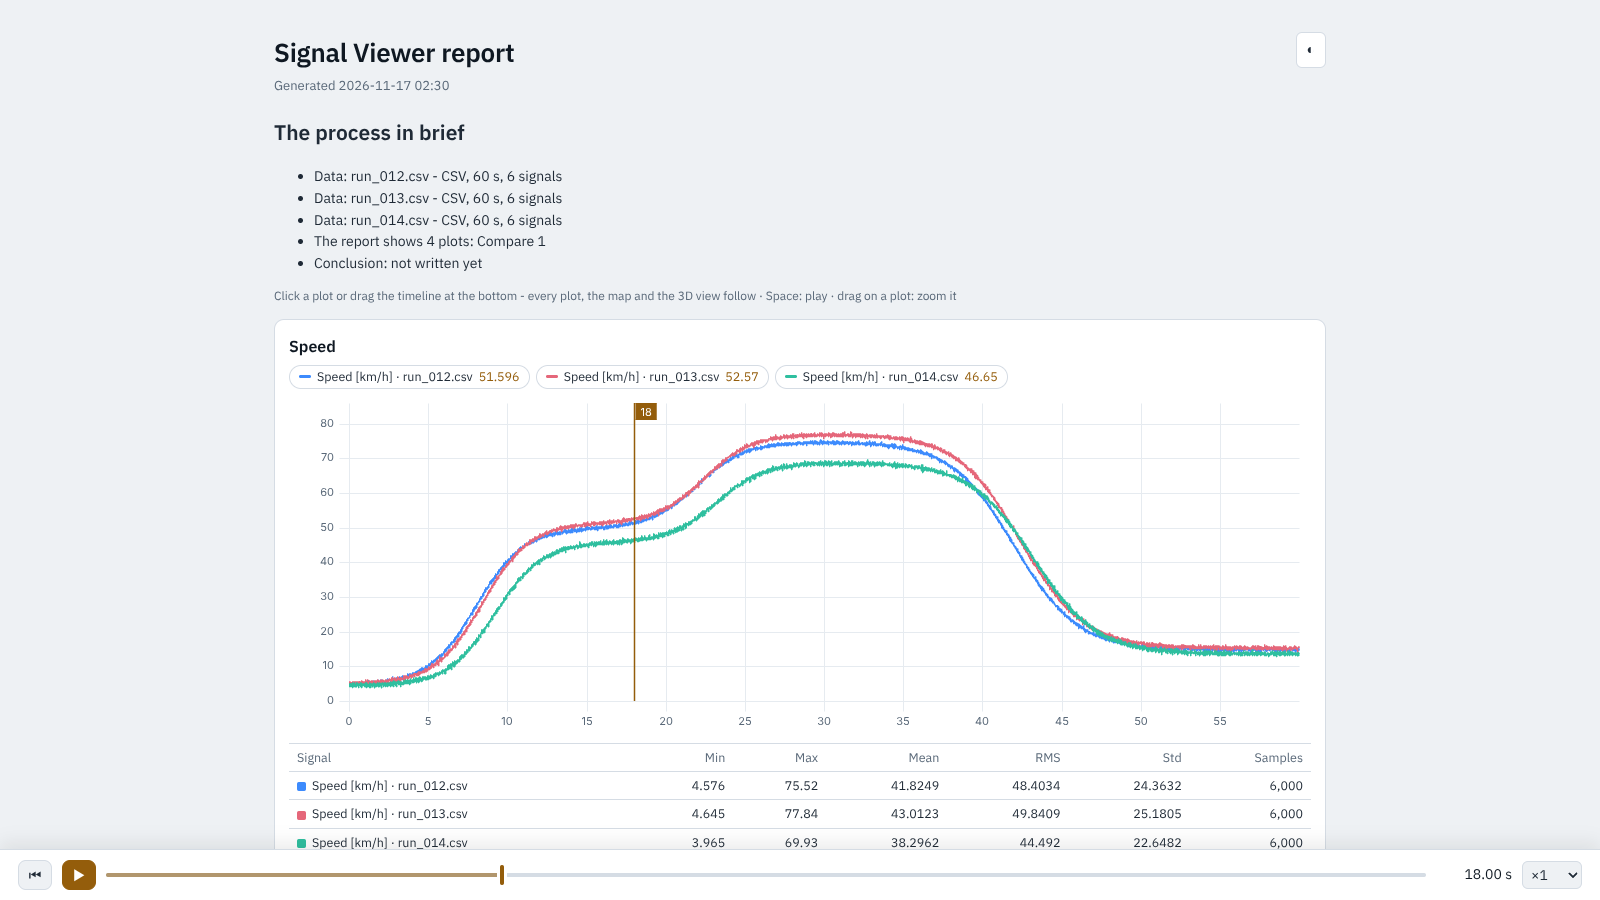
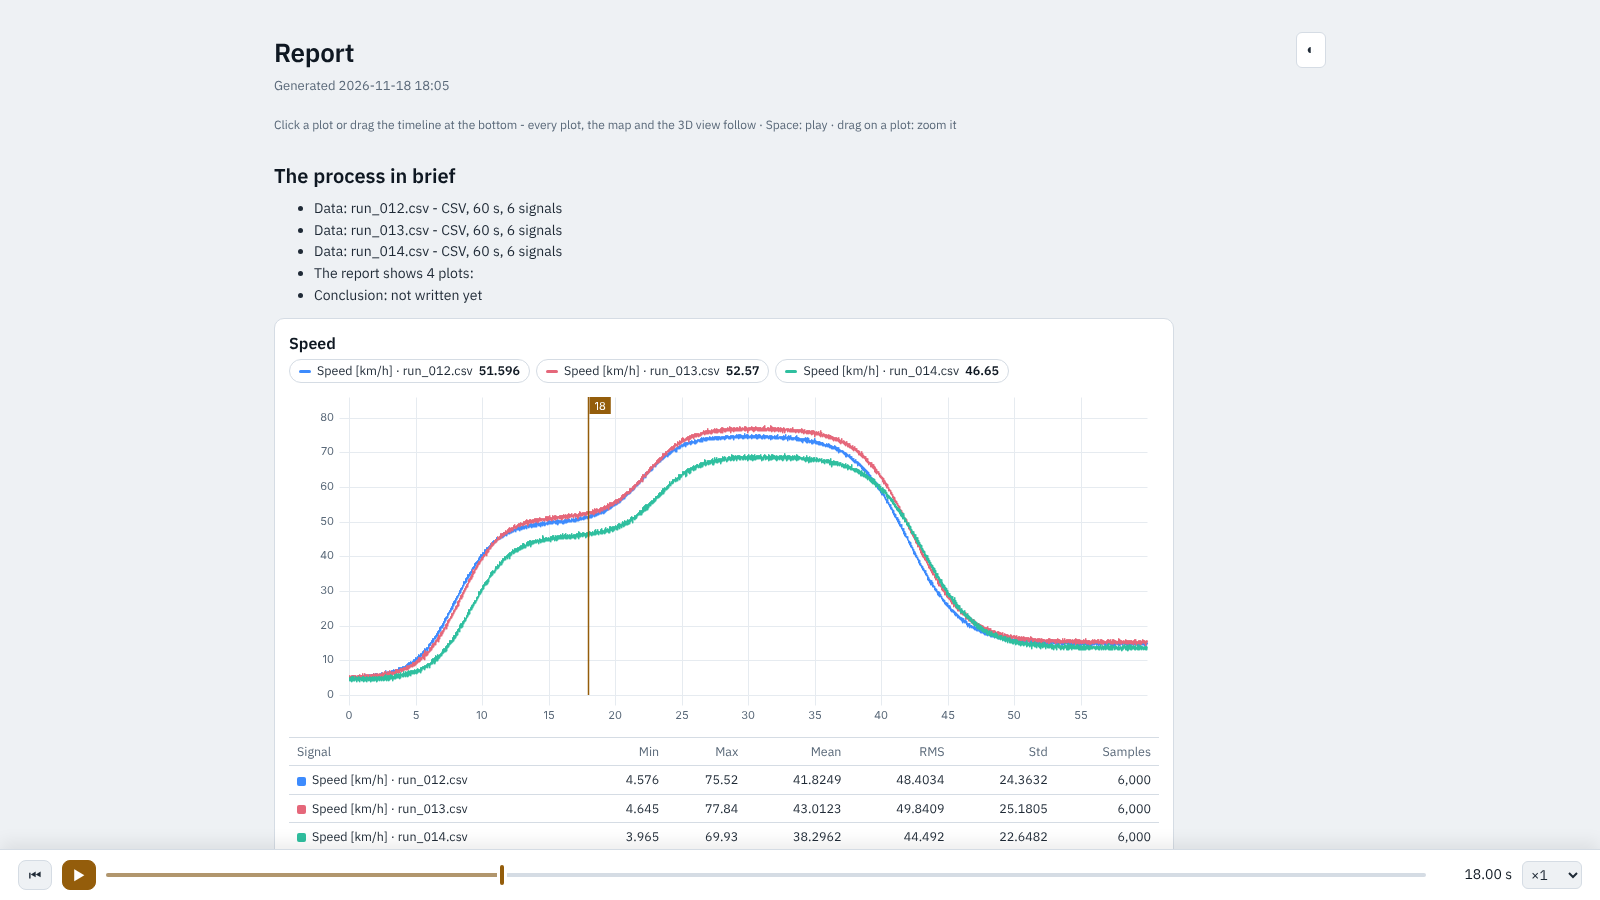
RE1: the editor readable in the dark theme, the process names the report's tabs; the last two panel tests; pictures 32/33/42
Claude-Session: https://claude.ai/code/session_0146GPW5ukZHrKYmBvoMSGR2

diff --git a/frontend/src/reportDoc.ts b/frontend/src/reportDoc.ts
@@ -128,7 +128,7 @@ export function resolveRef(ws: Workspace, raw: string, lang: Lang): DocItem | Sp
   if (pi !== null && !chosen[0].include) return { kind: "error", error: `${chosen[0].p.title || plotLabel.replace("{n}", String(pi + 1))}: ${t(chosen[0].why!)}`, src: raw };
   if (!chosen.length) return { kind: "error", error: t("rdEmptyTab", { name }), src: raw };
   const plots = chosen.map(({ p, pi: i }) => ({ ...plotSpec(tab!, p, i, plotLabel), ...(range !== undefined ? { range } : {}) }));
-  return { kind: "plots", plots, ...(table ? { table } : {}), src: raw };
+  return { kind: "plots", plots, ...(table ? { table } : {}), tab: tab.name || `${translate(lang, "tab")} ${ws.tabs.indexOf(tab) + 1}`, src: raw };
 }
 
 const FMT = /\s:\s*([<>^=]?[+\- ]?#?0?\d*[,_]?(?:\.\d+)?[bcdeEfFgGnosxX%]?)\s*$/;
@@ -194,7 +194,12 @@ export async function prepareDoc(ws: Workspace, text: string, lang: Lang): Promi
   });
   // the generated parts, as the Report panel made them
   const tr = (key: TKey) => translate(meta.lang, key);
-  const shown = items.filter((x) => x.kind === "plots").map((x) => ({ name: "", plots: x.plots as { title?: string }[] }));
+  // the process in brief names the tabs the report shows, each once
+  const shown: { name: string; plots: { title?: string }[] }[] = [];
+  for (const x of items.filter((i) => i.kind === "plots")) {
+    const same = shown.find((s) => s.name === x.tab);
+    if (same) same.plots.push(...(x.plots as { title?: string }[])); else shown.push({ name: x.tab as string, plots: [...(x.plots as { title?: string }[])] });
+  }
   const hasInvestigation = (ws.notes ?? []).some((n) => n.status) || (ws.conditions ?? []).length > 0 || st.journal.length > 0;
   for (const { k, name } of specials) {
     if (name === "notes") items[k] = { kind: "notes", notes: (ws.notes ?? []).filter((n) => !n.status).map((n) => ({ t: n.t, ...(n.t2 !== undefined ? { t2: n.t2 } : {}), text: n.text })) };

diff --git a/frontend/src/styles/panels.css b/frontend/src/styles/panels.css
@@ -99,7 +99,7 @@ table.data.cmp2 tbody + tbody tr.name-row td { border-top: 1px solid var(--line)
 .rd-suggest button { border: 1px solid var(--line); background: var(--bg); color: var(--ink); border-radius: 10px; padding: 0 8px; font: var(--fs-xs) var(--mono); }
 .rd-suggest button.on { border-color: var(--focus); }
 .rd-suggest .hint { margin-inline-start: auto; }
-.rd-text { flex: 1; min-height: 0; resize: none; border: 0; outline: none; padding: 14px 16px; background: var(--paper, var(--bg)); color: var(--ink);
+.rd-text { flex: 1; min-height: 0; resize: none; border: 0; outline: none; padding: 14px 16px; background: var(--panel); color: var(--ink);
   font: 13.5px/1.65 var(--mono); tab-size: 2; unicode-bidi: plaintext; }
 .rd-text:focus-visible { box-shadow: inset 0 0 0 2px var(--focus); }
 .rd-preview { min-width: 0; min-height: 0; display: flex; background: var(--bg); }

diff --git a/tests/e2e/test_features.py b/tests/e2e/test_features.py
@@ -814,12 +814,12 @@ def test_R01_to_R06_reports(pg):
     open_files(pg, "run_a.csv")
     sig(pg, "Speed").click()
     pg.click("[aria-label='Report']")
-    pg.locator(".side .afield input").first.fill("Run report"); pg.locator(".side .afield input").first.blur()
-    pg.click(".side .btn:has-text('Preview')")
-    pg.wait_for_selector("iframe.preview-frame")
-    pg.keyboard.press("Escape")
-    for label, name in (("Save the page (HTML)", "r.html"), ("PDF", "r.pdf"), ("Word", "r.docx")):
-        pg.locator(".side .btn", has_text=label).first.click(); save_as(pg, name)
+    pg.wait_for_selector(".rd .rd-text")                                # RE1: the report written as a document
+    pg.locator(".rd-text").fill("# Run report\n\n[[tab1]]")
+    pg.wait_for_selector("iframe.rd-frame")                             # the live preview
+    pg.wait_for_function("(window.__sv.state().reportPreviewHtml || '').includes('Run report')", timeout=30000)
+    for sel, name in ((".replay-make", "r.html"), (".rd-pdf", "r.pdf"), (".rd-docx", "r.docx")):
+        pg.locator(sel).click(); save_as(pg, name)
         pg.wait_for_function(f"[...document.querySelectorAll('.toast')].some(t => t.innerText.includes('{name}'))", timeout=40000)
     html = open(os.path.join(pg.env["out"], "r.html"), encoding="utf-8").read()
     assert "Run report" in html and "sv-data" in html

diff --git a/docs/dev/TASKS.md b/docs/dev/TASKS.md
@@ -250,3 +250,7 @@ task ticked in `ROADMAP.md`, the user-facing line in `CHANGELOG.md`, and a line 
   reportDoc.test (6), e2e test_report_doc (2); adapted test_findings_report, test_live_report, test_replay,
   test_workflows. quick_check green (backend 1454, Vitest 288, mypy clean); validation 29 / 29 on 1.31.0; mkdocs --strict.
   Version 1.31.0 in the five places; README / features / limitations / GUIDE / tutorial reviewed; README scenes 32/33/42 updated.
+- 2026-11-18 · RE1 end of round: whole e2e, one file per process, fresh build: 515 passed, 2 failed - test_judge_a_run and
+  test_features::test_R01_to_R06_reports still drove the removed Report panel; both adapted (the report screen) and green.
+  Found by the README pictures: the editor's text was unreadable in the dark theme (fixed), and the process in brief
+  named no tab ("The report shows 4 plots:") - now the tabs. Pictures retaken: 32, 33, 42.
